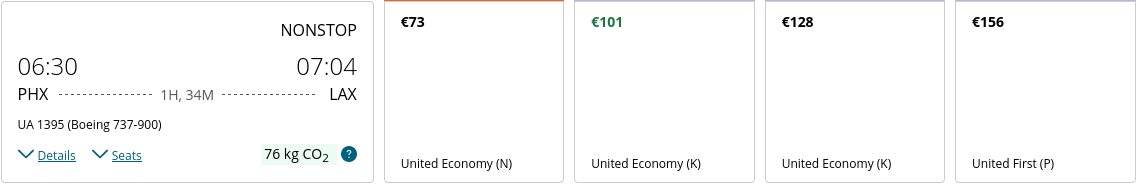
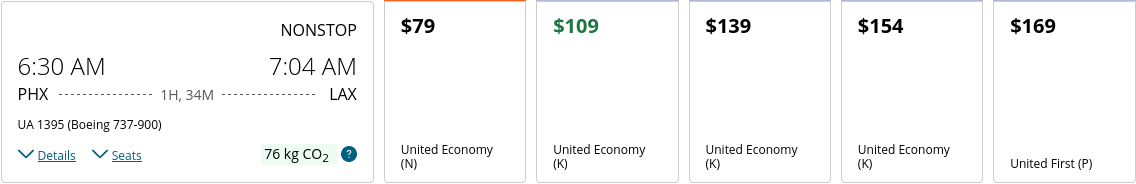
Latest scraping states: Wed Aug 23 15:04:19 UTC 2023

diff --git a/scrapes/states/united-01-05.md b/scrapes/states/united-01-05.md
@@ -2,9 +2,9 @@ Flight Information
 
 NONSTOP
 
-06:30Departing at 06:30
+6:30 AMDeparting at 6:30 AM
 
-07:04Arriving at 07:04
+7:04 AMArriving at 7:04 AM
 
 PHXOrigin Phoenix, AZ, US (PHX)
 
@@ -22,7 +22,7 @@ Learn more about carbon emissions
 
 Economy
 
-€101
+$109
 
 United Economy (K)
 
@@ -30,11 +30,11 @@ Add to cart
 
 Select fare for Economy
 
-€101
+$109
 
 Economy
 
-€101
+$109
 
 United Economy (K)
 
@@ -42,6 +42,6 @@ Add to cart
 
 Select fare for Economy
 
-€101
+$109
 
 ![](united-01-05.png)
